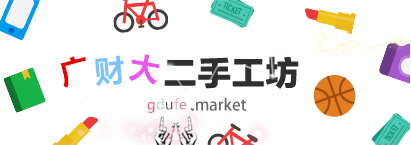
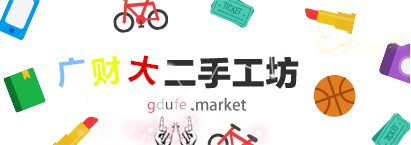
平台首页,搜索结果页,具体商品详情页,分类商品页logo

Changed region(s): [[0.146, 0.3586, 0.4088, 0.6069]]

diff --git a/src/main/resources/templates/goods/searchGoods.html b/src/main/resources/templates/goods/searchGoods.html
@@ -48,9 +48,22 @@
     <nav class="white nav1">
         <div class="nav-wrapper">
             <a th:href="@{/goods/homeGoods}" class="logo">
-                <em class="em1">广财大</em>
+                <!--<em class="em1">广财大</em>-->
+                <em class="em1">
+                    <span style="color: #4b82c3;">广</span>
+                    <span style="color: #ffd51f;">财</span>
+                    <span style="color: #b02b1a;">大</span>
+                </em>
                 <em class="em2">二手工坊</em>
-                <em class="em3">gdufe.market</em>
+                <em class="em3">
+                    <span style="color: #d80000;">g</span>
+                    <span style="color: #48bdff;">d</span>
+                    <span style="color: #ea83ee;">u</span>
+                    <span style="color: #50dd5a;">f</span>
+                    <span style="color: #ee9946;">e</span>
+                    .market
+                </em>
+                <!--<em class="em3">gdufe.market</em>-->
             </a>
             <div class="nav-wrapper search-bar">
                 <form ng-submit="search()" class="ng-pristine ng-invalid ng-invalid-required" th:action="@{/goods/search}">
@@ -295,7 +308,7 @@
                         <p th:text="${item.goods.name}"></p>
                     </div>
                     <div class="card-content item-location">
-                        <p>鲁东大学</p>
+                        <p>广东财经大学</p>
                         <p th:text="${item.goods.startTime}"></p>
                     </div>
                 </a>

diff --git a/src/main/resources/templates/goods/catelogGoods.html b/src/main/resources/templates/goods/catelogGoods.html
@@ -48,9 +48,22 @@
     <nav class="white nav1">
         <div class="nav-wrapper">
             <a th:href="@{/goods/homeGoods}" class="logo">
-                <em class="em1">广财大</em>
+                <!--<em class="em1">广财大</em>-->
+                <em class="em1">
+                    <span style="color: #4b82c3;">广</span>
+                    <span style="color: #ffd51f;">财</span>
+                    <span style="color: #b02b1a;">大</span>
+                </em>
                 <em class="em2">二手工坊</em>
-                <em class="em3">gdufe.market</em>
+                <em class="em3">
+                    <span style="color: #d80000;">g</span>
+                    <span style="color: #48bdff;">d</span>
+                    <span style="color: #ea83ee;">u</span>
+                    <span style="color: #50dd5a;">f</span>
+                    <span style="color: #ee9946;">e</span>
+                    .market
+                </em>
+                <!--<em class="em3">gdufe.market</em>-->
             </a>
             <div class="nav-wrapper search-bar">
                 <form ng-submit="search()" class="ng-pristine ng-invalid ng-invalid-required" th:action="@{/goods/search}">

diff --git a/src/main/resources/templates/goods/detailGoods.html b/src/main/resources/templates/goods/detailGoods.html
@@ -48,9 +48,22 @@
     <nav class="white nav1">
         <div class="nav-wrapper">
             <a th:href="@{/goods/homeGoods}" class="logo">
-                <em class="em1">广财大</em>
+                <!--<em class="em1">广财大</em>-->
+                <em class="em1">
+                    <span style="color: #4b82c3;">广</span>
+                    <span style="color: #ffd51f;">财</span>
+                    <span style="color: #b02b1a;">大</span>
+                </em>
                 <em class="em2">二手工坊</em>
-                <em class="em3">gdufe.market</em>
+                <em class="em3">
+                    <span style="color: #d80000;">g</span>
+                    <span style="color: #48bdff;">d</span>
+                    <span style="color: #ea83ee;">u</span>
+                    <span style="color: #50dd5a;">f</span>
+                    <span style="color: #ee9946;">e</span>
+                    .market
+                </em>
+                <!--<em class="em3">gdufe.market</em>-->
             </a>
             <div class="nav-wrapper search-bar">
                 <form ng-submit="search()" class="ng-pristine ng-invalid ng-invalid-required" th:action="@{/goods/search}">

diff --git a/src/main/resources/templates/goods/homeGoods.html b/src/main/resources/templates/goods/homeGoods.html
@@ -49,9 +49,22 @@
     <nav class="white nav1">
         <div class="nav-wrapper">
             <a th:href="@{/goods/homeGoods}" class="logo">
-                <em class="em1">广财大</em>
+                <!--<em class="em1">广财大</em>-->
+                <em class="em1">
+                    <span style="color: #4b82c3;">广</span>
+                    <span style="color: #ffd51f;">财</span>
+                    <span style="color: #b02b1a;">大</span>
+                </em>
                 <em class="em2">二手工坊</em>
-                <em class="em3">gdufe.market</em>
+                <em class="em3">
+                    <span style="color: #d80000;">g</span>
+                    <span style="color: #48bdff;">d</span>
+                    <span style="color: #ea83ee;">u</span>
+                    <span style="color: #50dd5a;">f</span>
+                    <span style="color: #ee9946;">e</span>
+                    .market
+                </em>
+                <!--<em class="em3">gdufe.market</em>-->
             </a>
             <div class="nav-wrapper search-bar">
                 <form ng-submit="search()" class="ng-pristine ng-invalid ng-invalid-required" th:action="@{/goods/search}">
